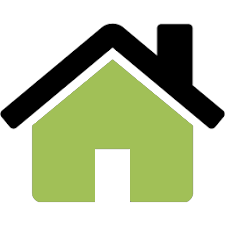
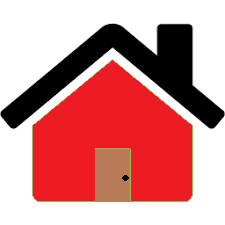
,jfjkhfd

diff --git a/index.html b/index.html
@@ -47,10 +47,10 @@
             <a class="nav-link js-scroll-trigger" href="#about">About & Contact</a>
           </li>
           <li class="nav-item">
-            <a class="nav-link js-scroll-trigger" href="#team">Home Protection Plans</a>
+            <a class="nav-link js-scroll-trigger" href="#hpp">Home Protection Plans</a>
           </li>
           <li class="nav-item">
-            <a class="nav-link js-scroll-trigger" href="#">Past Reviews</a>
+            <a class="nav-link js-scroll-trigger" href="#team">Past Reviews</a>
           </li>
           <li class="nav-item">
             <a class="nav-link js-scroll-trigger" href="#contact">Send us a Review/ Contact Us</a>
@@ -83,25 +83,23 @@
       <div class="row text-center">
         <div class="col-md-4">
           <span class="fa-stack fa-4x">
-           <img class="img-fluid d-block mx-auto" src="img/house.png" alt=""> 
+           <img class="img-fluid d-block mx-auto" src="img/house2d.png" alt=""> 
           </span>
-          <h4 class="service-heading">Residential</h4>
+          <h4 class="service-heading"><br><br>Residential</h4>
           <p class="text-muted">Homes, houses, buildings, etc. are just of the some types of residential services we perform. We give contracts to property managements, also giving monthly and weekly services. We will give you a cheaper price than your current building pest control service contractor, just contact us at 647-961-7426. </p>
         </div>
         <div class="col-md-4">
           <span class="fa-stack fa-4x">
-            <i class="fas fa-circle fa-stack-2x text-primary"></i>
-            <i class="fas fa-laptop fa-stack-1x fa-inverse"></i>
+            <img class="img-fluid d-block mx-auto" src="img/store2.png" alt="">
           </span>
-          <h4 class="service-heading">Commercial</h4>
+          <h4 class="service-heading"><br><br>Commercial</h4>
           <p class="text-muted">We provide reliable and effective pest control services to commercial places such as restaurants. Anything to do w with commercial, we do it! Currently, we service mulitple commercial places and many have contracts with us for service monthly/weekly.</p>
         </div>
         <div class="col-md-4">
           <span class="fa-stack fa-4x">
-            <i class="fas fa-circle fa-stack-2x text-primary"></i>
-            <i class="fas fa-lock fa-stack-1x fa-inverse"></i>
+            <img class="img-fluid d-block mx-auto" src="img/.png" alt="">
           </span>
-          <h4 class="service-heading">Industrial</h4>
+          <h4 class="service-heading"><br><br>Industrial</h4>
           <p class="text-muted">You may call us directly at 647-961-7426 and you'll have a chance to speak with our technician, who is certified in many areas and types of pests regarding pest control.</p>
         </div>
       </div>
@@ -256,17 +254,12 @@
   </section>
 
   <!-- HPP -->
-  <section class="bg-light page-section" id="team">
+  <section class="bg-light page-section" id="hpp">
     <div class="container">
       <div class="row">
         <div class="col-lg-12 text-center">
           <h2 class="section-heading text-uppercase">Home Protection Plans (HPP)</h2>
-          <h3 class="section-subheading text-muted">Our Home Protection Plan (HPP) provides year-round defense against current and future infestations for one year from your very first treatment. Our experienced technicians will handle your pest problem by using residential methods of removal for over 15 of the most common household pests, including bed bugs, cockroaches and many more. To get a short description of some pests we deal with, please click
-
-
-            <a href="portfolio">here</a>
-
-            to access the Pest Library.
+          <h3 class="section-subheading text-muted">Our Home Protection Plan (HPP) provides year-round defense against current and future infestations for one year from your very first treatment. Our experienced technicians will handle your pest problem by using residential methods of removal for over 15 of the most common household pests, including bed bugs, cockroaches and many more. To get a short description of some pests we deal with, please click <a class="nav-link js-scroll-trigger" href="#portfolio"> here </a> to access the Pest Library.
 
 <br> 
 <br>
@@ -317,7 +310,7 @@ I should add that the price was always less than we expected.It was certainly le
         <div class="col-sm-4">
           <div class="team-member">
 
-            <img class="mx-auto rounded-circle" src="img/review2njpg" alt="">
+            <img class="mx-auto rounded-circle" src="img/review2new.jpg" alt="">
 
 
             <h4>Gloria Beatty
